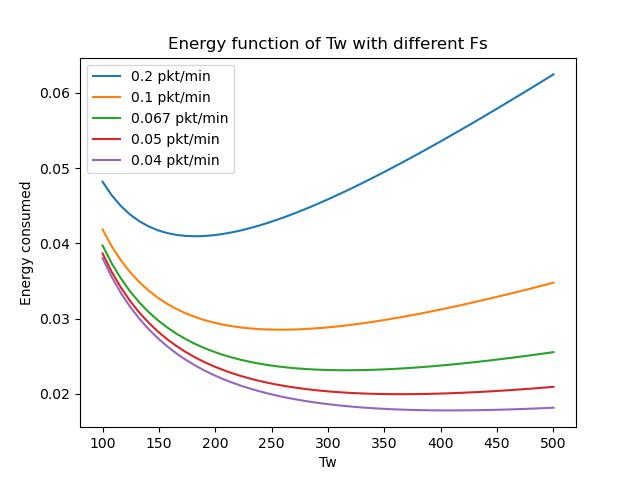
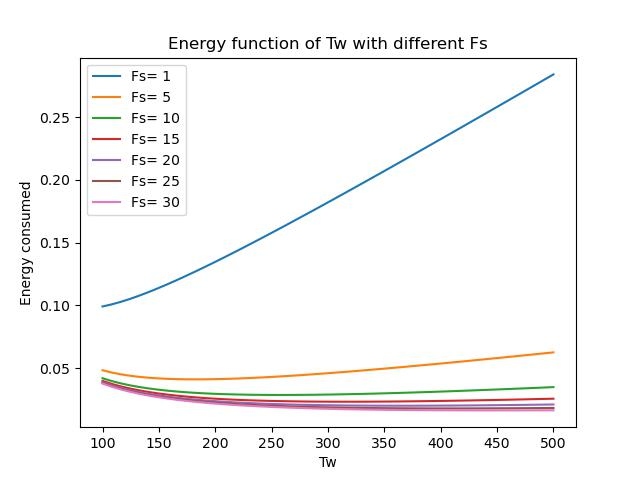
fixed

diff --git a/project-2/main.py b/project-2/main.py
@@ -67,14 +67,15 @@ def delay_fun(tw):
 
 if __name__ == "__main__":
     # PART 1 #
+    time1 = [1, 5, 10, 15, 20, 25, 30]
     time = [5, 10, 15, 20, 25]
     alpha_1, alpha_2, alpha_3 = 0.0, 0.0, 0.0
     x = np.linspace(Tw_min, Tw_max)
 
-    for t in time:
+    for t in time1:
         Fs = 1.0 / (t * 60 * 1000)
         alpha_1, alpha_2, alpha_3 = calc_alphas(1)
-        label = "" + str(round(1 / t, 3)) + " pkt/min"
+        label = "Fs= "+str(t)
         plt.plot(x, energy_fun(x), label=label)
         plt.xlabel('Tw')
         plt.ylabel('Energy consumed')
@@ -82,30 +83,30 @@ if __name__ == "__main__":
 
     plt.legend()
     plt.savefig("1-energy.jpg")
-    #plt.show()
+    plt.show()
 
     beta_1, beta_2 = calc_betas(D)
     plt.plot(x, delay_fun(x), color='red', label='fun')
     plt.xlabel('Tw')
     plt.ylabel('Delay time')
     plt.title("Delay function of Tw")
-    plt.savefig("2-delay.jpg")
-    #plt.show()
+    plt.savefig("1-delay.jpg")
+    plt.show()
 
     x = np.linspace(10, Tw_max)
 
-    for t in time:
+    for t in time1:
         Fs = 1.0 / (t * 60 * 1000)
         alpha_1, alpha_2, alpha_3 = calc_alphas(1)
         beta_1, beta_2 = calc_betas(D)
-        label = "" + str(round(1 / t, 3)) + " pkt/min"
+        label = "Fs= "+str(t)
         plt.plot(energy_fun(x), delay_fun(x), label=label)
         plt.xlabel('Energy')
         plt.ylabel('Delay')
         plt.title("Energy-Delay")
     plt.legend()
-    plt.savefig("energy-delay.jpg")
-    #plt.show()
+    plt.savefig("1-energy-delay.jpg")
+    plt.show()
 
     # PART 2 #
     prob1_solves = []
@@ -147,7 +148,7 @@ if __name__ == "__main__":
         plt.legend(loc='upper right')
         plt.title("L_max="+str(l_element))
         plt.savefig("2-"+str(l_element)+".jpg")
-        #plt.show()
+        plt.show()
 
     colour_index = 0
     list_Ebudget = [0.5, 1.0, 2.0, 3.0, 4.0, 5.0]
@@ -180,7 +181,7 @@ if __name__ == "__main__":
     plt.ylabel('Delay')
     plt.title("All Ebudgets")
     plt.savefig("allebudgets.jpg")
-    #plt.show()
+    plt.show()
 
     """
     #Previous E_BUDGET for exercise 2
@@ -271,11 +272,11 @@ if __name__ == "__main__":
     plt.ylabel("L(Tw)")
     plt.legend(loc="upper right")
     plt.savefig("game_theory.jpg")
-    #plt.show()
+    plt.show()
 
     index = 1
-    fig = plt.figure()
-    ax = fig.add_subplot(1, 1, 1)
+    #fig = plt.figure()
+    #ax = fig.add_subplot(1, 1, 1)
 
     """
     #E_BUDGET PLOT
